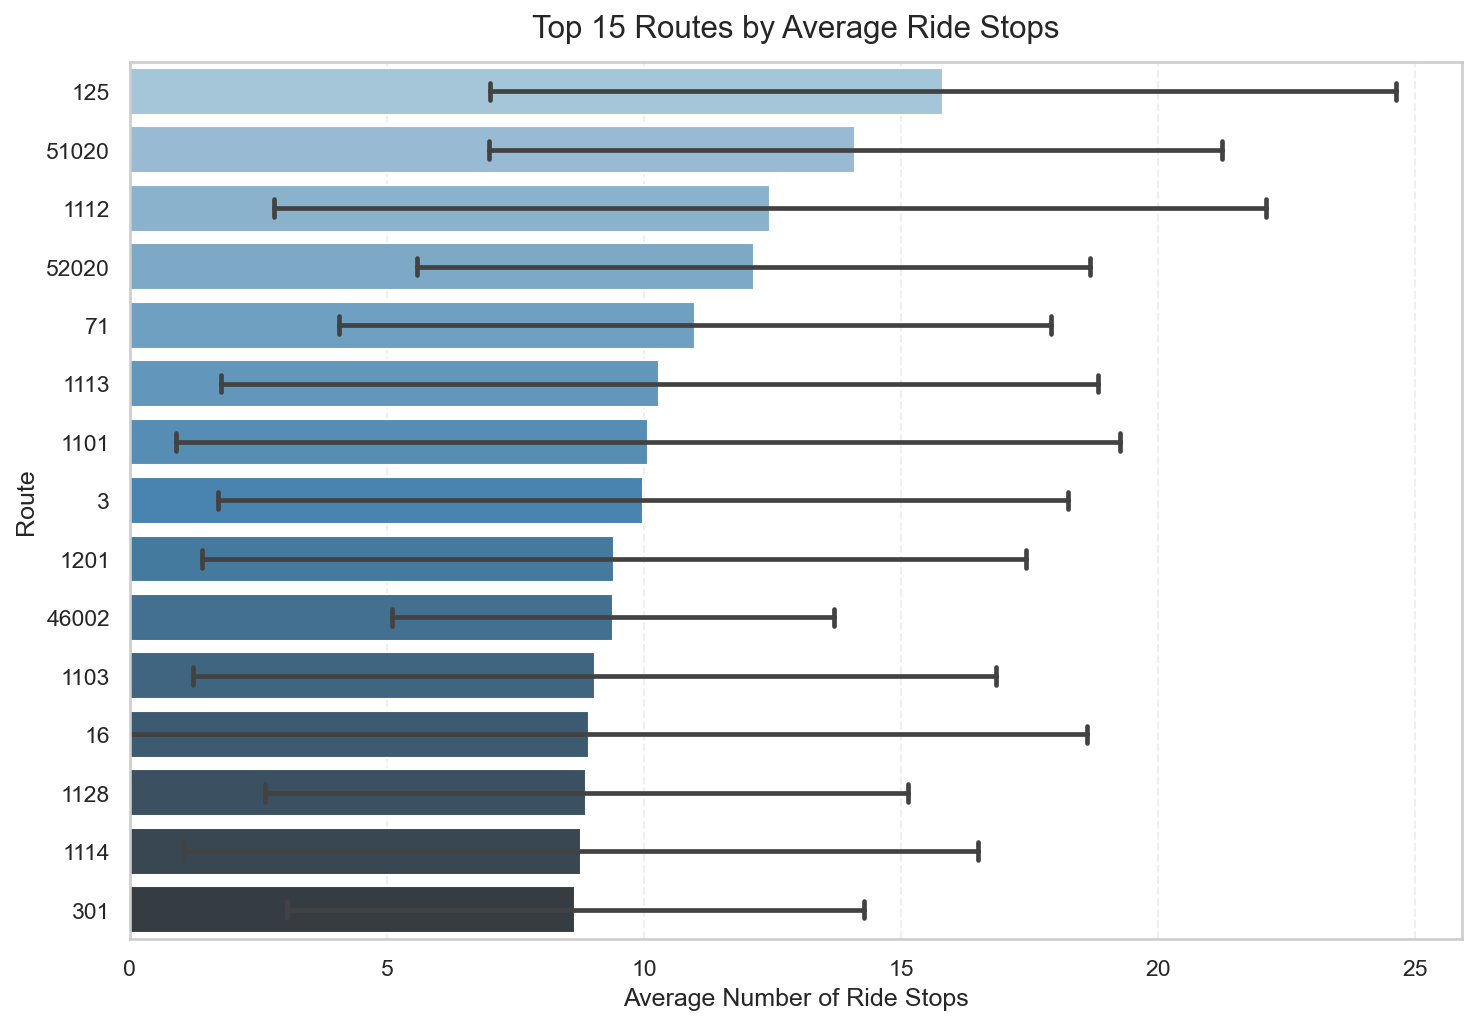
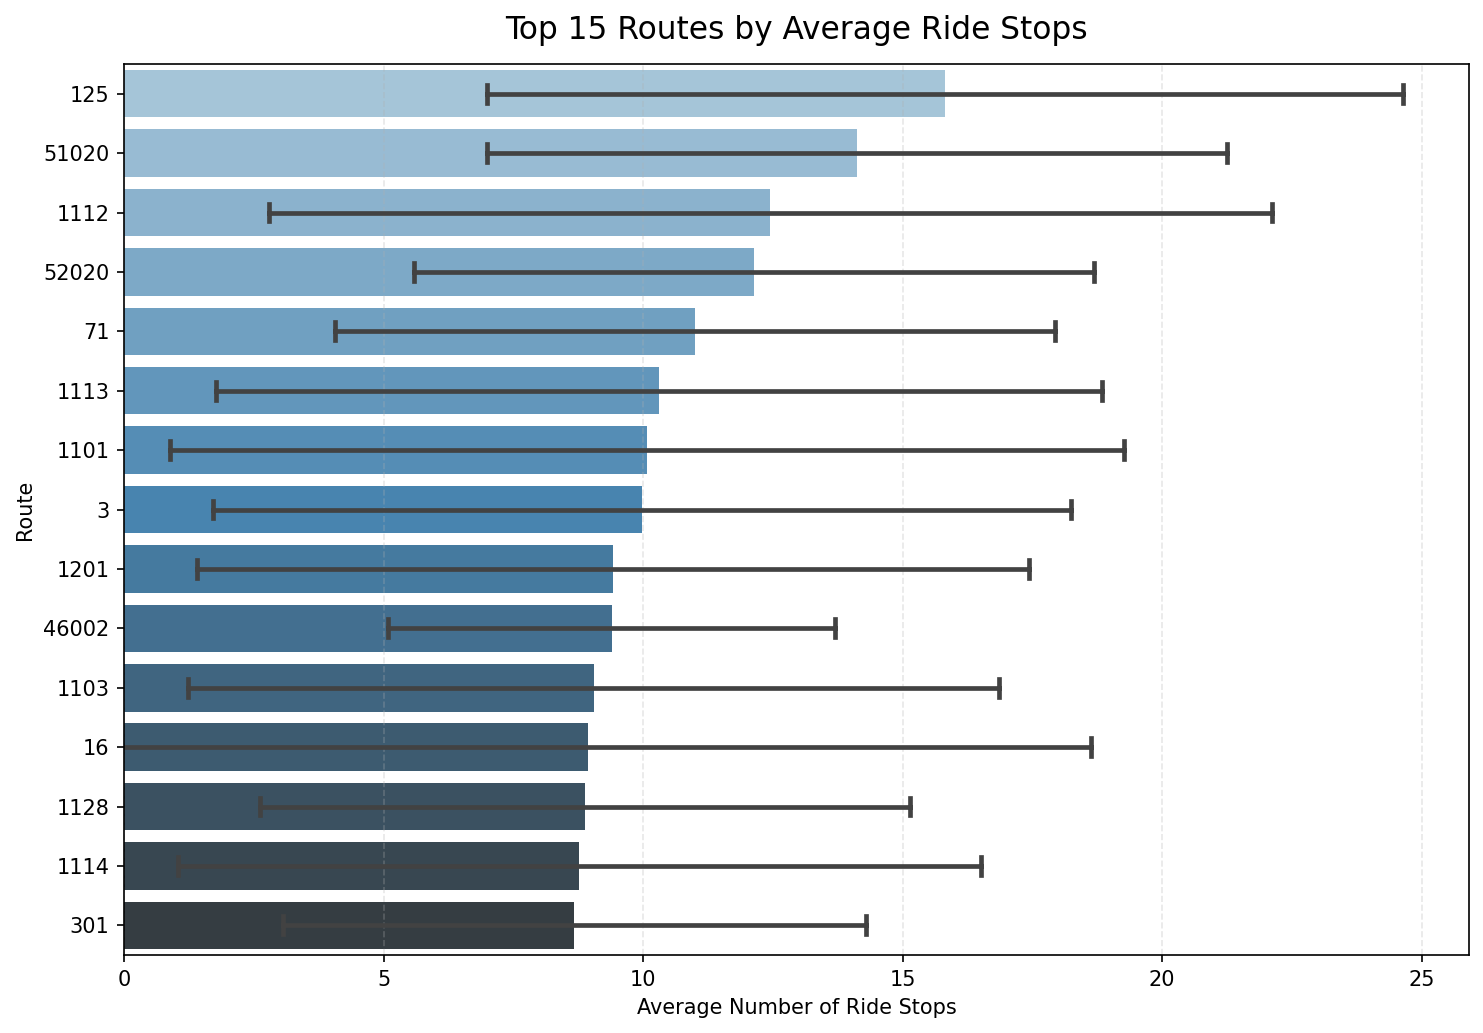
refactor: 参考第二次作业增强鲁棒性与兼容性

Changed region(s): [[0.0312, 0.0, 0.9973, 0.999], [0.0, 0.4683, 0.0312, 0.5307]]

diff --git a/homework.py b/homework.py
@@ -14,6 +14,18 @@ import seaborn as sns
 
 PROJECT_DIR = Path(__file__).resolve().parent
 DATA_FILE = PROJECT_DIR / "ICData.csv"
+REQUIRED_COLUMNS = {
+    "交易类型",
+    "交易时间",
+    "交易卡号",
+    "刷卡类型",
+    "线路号",
+    "车辆编号",
+    "上车站点",
+    "下车站点",
+    "驾驶员编号",
+    "运营公司编号",
+}
 
 
 def print_task_title(number, title):
@@ -27,8 +39,15 @@ def load_and_preprocess(csv_path=DATA_FILE):
     """读取 IC 卡数据，完成时间解析、衍生字段构造和异常值清理。"""
     print_task_title(1, "数据预处理")
 
+    csv_path = Path(csv_path)
+    if not csv_path.is_file():
+        raise FileNotFoundError(f"未找到数据文件：{csv_path}")
+
     # 使用 utf-8-sig 自动处理 CSV 表头可能带有的 BOM 字符。
     df = pd.read_csv(csv_path, encoding="utf-8-sig")
+    missing_columns = sorted(REQUIRED_COLUMNS.difference(df.columns))
+    if missing_columns:
+        raise ValueError("数据文件缺少必要列：" + "、".join(missing_columns))
 
     print("数据集前5行：")
     print(df.head().to_string(index=False))
@@ -165,7 +184,7 @@ def plot_route_stops(boardings):
         estimator=np.mean,
         capsize=0.3,
         palette="Blues_d",
-        legend=False,
+        dodge=False,
         ax=ax,
     )
     try:
@@ -174,6 +193,9 @@ def plot_route_stops(boardings):
     except (TypeError, AttributeError):
         # 兼容 seaborn 0.11 及更早版本的 ci 参数写法。
         sns.barplot(**barplot_options, ci="sd")
+    legend = ax.get_legend()
+    if legend is not None:
+        legend.remove()
 
     ax.set_title("Top 15 Routes by Average Ride Stops", fontsize=15, pad=12)
     ax.set_xlabel("Average Number of Ride Stops")
@@ -257,6 +279,13 @@ def export_route_driver_info(boardings):
     print_task_title(5, "线路驾驶员信息批量导出")
     output_dir = PROJECT_DIR / "线路驾驶员信息"
     output_dir.mkdir(parents=True, exist_ok=True)
+
+    # 先清理上一次运行留下的 txt，避免旧线路文件混入本次结果。
+    stale_files = list(output_dir.glob("*.txt"))
+    for stale_file in stale_files:
+        stale_file.unlink()
+    if stale_files:
+        print(f"已清理上次运行的 {len(stale_files)} 个旧文件。")
 
     generated_paths = []
     for route_number in range(1101, 1121):